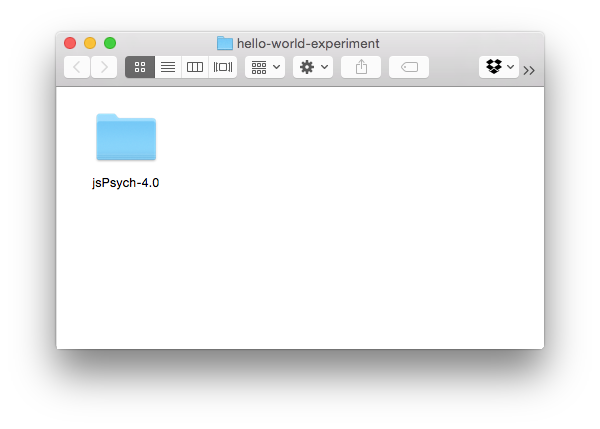
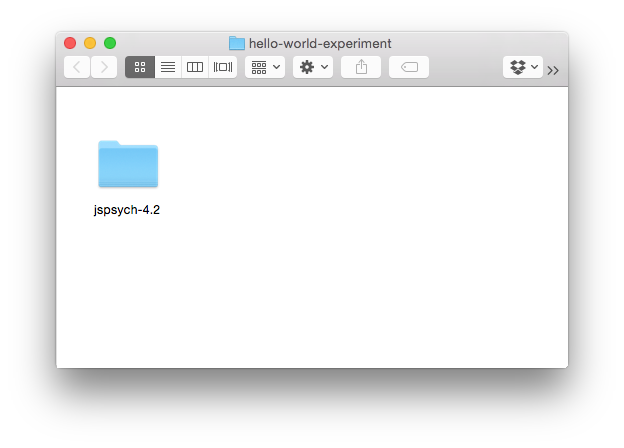
update tutorial examples for 4.2

Changed region(s): [[0.09, 0.0606, 0.93, 0.8182], [0.15, 0.2424, 0.27, 0.4848]]

diff --git a/docs/markdown_docs/tutorials/go-nogo-task.md b/docs/markdown_docs/tutorials/go-nogo-task.md
@@ -19,9 +19,9 @@ Start by downloading jsPsych and setting up a folder to contain your experiment 
   <head>
     <title>My experiment</title>
     <script src="https://ajax.googleapis.com/ajax/libs/jquery/1.11.1/jquery.min.js"></script>
-    <script src="jsPsych-4.0/jspsych.js"></script>
-    <script src="jsPsych-4.0/plugins/jspsych-text.js"></script>
-    <link href="jsPsych-4.0/css/jspsych.css" rel="stylesheet" type="text/css"></link>
+    <script src="jspsych-4.2/jspsych.js"></script>
+    <script src="jspsych-4.2/plugins/jspsych-text.js"></script>
+    <link href="jspsych-4.2/css/jspsych.css" rel="stylesheet" type="text/css"></link>
   </head>
   <body>
   </body>
@@ -68,9 +68,9 @@ jsPsych.init({
   <head>
     <title>My experiment</title>
     <script src="https://ajax.googleapis.com/ajax/libs/jquery/1.11.1/jquery.min.js"></script>
-    <script src="jsPsych-4.0/jspsych.js"></script>
-    <script src="jsPsych-4.0/plugins/jspsych-text.js"></script>
-    <link href="jsPsych-4.0/css/jspsych.css" rel="stylesheet" type="text/css"></link>
+    <script src="jspsych-4.2/jspsych.js"></script>
+    <script src="jspsych-4.2/plugins/jspsych-text.js"></script>
+    <link href="jspsych-4.2/css/jspsych.css" rel="stylesheet" type="text/css"></link>
   </head>
   <body>
   </body>
@@ -130,9 +130,9 @@ experiment.push(instructions_block);
   <head>
     <title>My experiment</title>
     <script src="https://ajax.googleapis.com/ajax/libs/jquery/1.11.1/jquery.min.js"></script>
-    <script src="jsPsych-4.0/jspsych.js"></script>
-    <script src="jsPsych-4.0/plugins/jspsych-text.js"></script>
-    <link href="jsPsych-4.0/css/jspsych.css" rel="stylesheet" type="text/css"></link>
+    <script src="jspsych-4.2/jspsych.js"></script>
+    <script src="jspsych-4.2/plugins/jspsych-text.js"></script>
+    <link href="jspsych-4.2/css/jspsych.css" rel="stylesheet" type="text/css"></link>
   </head>
   <body>
   </body>
@@ -181,7 +181,7 @@ First, to use a plugin we need to load it in the `<head>` section of the experim
 ```html
 <head>
   ...
-  <script src="jsPsych-4.0/plugins/jspsych-single-stim.js"></script>
+  <script src="jspsych-4.2/plugins/jspsych-single-stim.js"></script>
   ...
 </head>
 ```
@@ -215,10 +215,10 @@ experiment.push(test_block);
   <head>
     <title>My experiment</title>
     <script src="https://ajax.googleapis.com/ajax/libs/jquery/1.11.1/jquery.min.js"></script>
-    <script src="jsPsych-4.0/jspsych.js"></script>
-    <script src="jsPsych-4.0/plugins/jspsych-text.js"></script>
-    <script src="jsPsych-4.0/plugins/jspsych-single-stim.js"></script>
-    <link href="jsPsych-4.0/css/jspsych.css" rel="stylesheet" type="text/css"></link>
+    <script src="jspsych-4.2/jspsych.js"></script>
+    <script src="jspsych-4.2/plugins/jspsych-text.js"></script>
+    <script src="jspsych-4.2/plugins/jspsych-single-stim.js"></script>
+    <link href="jspsych-4.2/css/jspsych.css" rel="stylesheet" type="text/css"></link>
   </head>
   <body>
   </body>
@@ -310,10 +310,10 @@ If you are wondering where to figure out what the various parameter options for 
   <head>
     <title>My experiment</title>
     <script src="https://ajax.googleapis.com/ajax/libs/jquery/1.11.1/jquery.min.js"></script>
-    <script src="jsPsych-4.0/jspsych.js"></script>
-    <script src="jsPsych-4.0/plugins/jspsych-text.js"></script>
-    <script src="jsPsych-4.0/plugins/jspsych-single-stim.js"></script>
-    <link href="jsPsych-4.0/css/jspsych.css" rel="stylesheet" type="text/css"></link>
+    <script src="jspsych-4.2/jspsych.js"></script>
+    <script src="jspsych-4.2/plugins/jspsych-text.js"></script>
+    <script src="jspsych-4.2/plugins/jspsych-single-stim.js"></script>
+    <link href="jspsych-4.2/css/jspsych.css" rel="stylesheet" type="text/css"></link>
   </head>
   <body>
   </body>
@@ -402,10 +402,10 @@ Now our experiment is 20 trials long, and the trials are shown in a random order
   <head>
     <title>My experiment</title>
     <script src="https://ajax.googleapis.com/ajax/libs/jquery/1.11.1/jquery.min.js"></script>
-    <script src="jsPsych-4.0/jspsych.js"></script>
-    <script src="jsPsych-4.0/plugins/jspsych-text.js"></script>
-    <script src="jsPsych-4.0/plugins/jspsych-single-stim.js"></script>
-    <link href="jsPsych-4.0/css/jspsych.css" rel="stylesheet" type="text/css"></link>
+    <script src="jspsych-4.2/jspsych.js"></script>
+    <script src="jspsych-4.2/plugins/jspsych-text.js"></script>
+    <script src="jspsych-4.2/plugins/jspsych-single-stim.js"></script>
+    <link href="jspsych-4.2/css/jspsych.css" rel="stylesheet" type="text/css"></link>
   </head>
   <body>
   </body>
@@ -483,10 +483,10 @@ jsPsych.init({
   <head>
     <title>My experiment</title>
     <script src="https://ajax.googleapis.com/ajax/libs/jquery/1.11.1/jquery.min.js"></script>
-    <script src="jsPsych-4.0/jspsych.js"></script>
-    <script src="jsPsych-4.0/plugins/jspsych-text.js"></script>
-    <script src="jsPsych-4.0/plugins/jspsych-single-stim.js"></script>
-    <link href="jsPsych-4.0/css/jspsych.css" rel="stylesheet" type="text/css"></link>
+    <script src="jspsych-4.2/jspsych.js"></script>
+    <script src="jspsych-4.2/plugins/jspsych-text.js"></script>
+    <script src="jspsych-4.2/plugins/jspsych-single-stim.js"></script>
+    <link href="jspsych-4.2/css/jspsych.css" rel="stylesheet" type="text/css"></link>
   </head>
   <body>
   </body>
@@ -593,10 +593,10 @@ var test_block = {
   <head>
     <title>My experiment</title>
     <script src="https://ajax.googleapis.com/ajax/libs/jquery/1.11.1/jquery.min.js"></script>
-    <script src="jsPsych-4.0/jspsych.js"></script>
-    <script src="jsPsych-4.0/plugins/jspsych-text.js"></script>
-    <script src="jsPsych-4.0/plugins/jspsych-single-stim.js"></script>
-    <link href="jsPsych-4.0/css/jspsych.css" rel="stylesheet" type="text/css"></link>
+    <script src="jspsych-4.2/jspsych.js"></script>
+    <script src="jspsych-4.2/plugins/jspsych-text.js"></script>
+    <script src="jspsych-4.2/plugins/jspsych-single-stim.js"></script>
+    <link href="jspsych-4.2/css/jspsych.css" rel="stylesheet" type="text/css"></link>
   </head>
   <body>
   </body>
@@ -703,10 +703,10 @@ If you run the experiment, you'll notice that the interval between trials change
   <head>
     <title>My experiment</title>
     <script src="https://ajax.googleapis.com/ajax/libs/jquery/1.11.1/jquery.min.js"></script>
-    <script src="jsPsych-4.0/jspsych.js"></script>
-    <script src="jsPsych-4.0/plugins/jspsych-text.js"></script>
-    <script src="jsPsych-4.0/plugins/jspsych-single-stim.js"></script>
-    <link href="jsPsych-4.0/css/jspsych.css" rel="stylesheet" type="text/css"></link>
+    <script src="jspsych-4.2/jspsych.js"></script>
+    <script src="jspsych-4.2/plugins/jspsych-text.js"></script>
+    <script src="jspsych-4.2/plugins/jspsych-single-stim.js"></script>
+    <link href="jspsych-4.2/css/jspsych.css" rel="stylesheet" type="text/css"></link>
   </head>
   <body>
   </body>
@@ -829,10 +829,10 @@ experiment.push(debrief_block);
   <head>
     <title>My experiment</title>
     <script src="https://ajax.googleapis.com/ajax/libs/jquery/1.11.1/jquery.min.js"></script>
-    <script src="jsPsych-4.0/jspsych.js"></script>
-    <script src="jsPsych-4.0/plugins/jspsych-text.js"></script>
-    <script src="jsPsych-4.0/plugins/jspsych-single-stim.js"></script>
-    <link href="jsPsych-4.0/css/jspsych.css" rel="stylesheet" type="text/css"></link>
+    <script src="jspsych-4.2/jspsych.js"></script>
+    <script src="jspsych-4.2/plugins/jspsych-text.js"></script>
+    <script src="jspsych-4.2/plugins/jspsych-single-stim.js"></script>
+    <link href="jspsych-4.2/css/jspsych.css" rel="stylesheet" type="text/css"></link>
   </head>
   <body>
   </body>

diff --git a/docs/markdown_docs/tutorials/hello-world.md b/docs/markdown_docs/tutorials/hello-world.md
@@ -4,13 +4,13 @@ In the long tradition of `hello world` examples, this tutorial creates an experi
 
 ## Step 1: Download the jsPsych library
 
-Start by downloading the jsPsych library. The most recent version can always be found on the [GitHub releases page](https://github.com/jodeleeuw/jsPsych/releases). Download either the ZIP or TAR archive of the latest release.
+Start by downloading the jsPsych library. The most recent version can always be found on the [GitHub releases page](https://github.com/jodeleeuw/jsPsych/releases).
 
 ![releasespage](/img/githubreleases.jpg)
 
 ## Step 2: Create a folder to store your experiment files
 
-Create a folder on your computer to put the experiment files in. Once you've created the folder, open the downloaded archive from step 1, and move the extracted folder (called `jsPsych-4.0.1` if using v4.0.1 of jsPsych) into the experiment folder. Here's what it looks like on a mac:
+Create a folder on your computer to put the experiment files in. Once you've created the folder, open the downloaded archive from step 1, and move the extracted folder (called `jspsych-4.2` if using v4.2 of jsPsych) into the experiment folder. Here's what it looks like on a mac:
 
 ![folder setup](/img/folder-setup.png)
 
@@ -53,7 +53,7 @@ To use jsPsych, add a `<script>` tag to import the library. You'll need to impor
 	<head>
 		<title>My experiment</title>
 		<script src="https://ajax.googleapis.com/ajax/libs/jquery/1.11.1/jquery.min.js"></script>
-		<script src="jsPsych-4.0/jspsych.js"></script>
+		<script src="jspsych-4.2/jspsych.js"></script>
 	</head>
 	<body>
 	</body>
@@ -68,8 +68,8 @@ You may also want to import the jsPsych stylesheet, which applies a basic set of
 	<head>
 		<title>My experiment</title>
 		<script src="https://ajax.googleapis.com/ajax/libs/jquery/1.11.1/jquery.min.js"></script>
-		<script src="jsPsych-4.0/jspsych.js"></script>
-		<link href="jsPsych-4.0/css/jspsych.css" rel="stylesheet" type="text/css"></link>
+		<script src="jspsych-4.2/jspsych.js"></script>
+		<link href="jspsych-4.2/css/jspsych.css" rel="stylesheet" type="text/css"></link>
 	</head>
 	<body>
 	</body>
@@ -86,9 +86,9 @@ For the demo, we want to show some text on the screen. This is exactly what the 
 	<head>
 		<title>My experiment</title>
 		<script src="https://ajax.googleapis.com/ajax/libs/jquery/1.11.1/jquery.min.js"></script>
-		<script src="jsPsych-4.0/jspsych.js"></script>
-		<script src="jsPsych-4.0/plugins/jspsych-text.js"></script>
-		<link href="jsPsych-4.0/css/jspsych.css" rel="stylesheet" type="text/css"></link>
+		<script src="jspsych-4.2/jspsych.js"></script>
+		<script src="jspsych-4.2/plugins/jspsych-text.js"></script>
+		<link href="jspsych-4.2/css/jspsych.css" rel="stylesheet" type="text/css"></link>
 	</head>
 	<body>
 	</body>
@@ -105,9 +105,9 @@ To add JavaScript code directly to the webpage we need to add a set of `<script>
 	<head>
 		<title>My experiment</title>
 		<script src="https://ajax.googleapis.com/ajax/libs/jquery/1.11.1/jquery.min.js"></script>
-		<script src="jsPsych-4.0/jspsych.js"></script>
-		<script src="jsPsych-4.0/plugins/jspsych-text.js"></script>
-		<link href="jsPsych-4.0/css/jspsych.css" rel="stylesheet" type="text/css"></link>
+		<script src="jspsych-4.2/jspsych.js"></script>
+		<script src="jspsych-4.2/plugins/jspsych-text.js"></script>
+		<link href="jspsych-4.2/css/jspsych.css" rel="stylesheet" type="text/css"></link>
 	</head>
 	<body>
 	</body>
@@ -130,9 +130,9 @@ Now that we have the trial defined, we just need to tell jsPsych to run an exper
 	<head>
 		<title>My experiment</title>
 		<script src="https://ajax.googleapis.com/ajax/libs/jquery/1.11.1/jquery.min.js"></script>
-		<script src="jsPsych-4.0/jspsych.js"></script>
-		<script src="jsPsych-4.0/plugins/jspsych-text.js"></script>
-		<link href="jsPsych-4.0/css/jspsych.css" rel="stylesheet" type="text/css"></link>
+		<script src="jspsych-4.2/jspsych.js"></script>
+		<script src="jspsych-4.2/plugins/jspsych-text.js"></script>
+		<link href="jspsych-4.2/css/jspsych.css" rel="stylesheet" type="text/css"></link>
 	</head>
 	<body>
 	</body>
